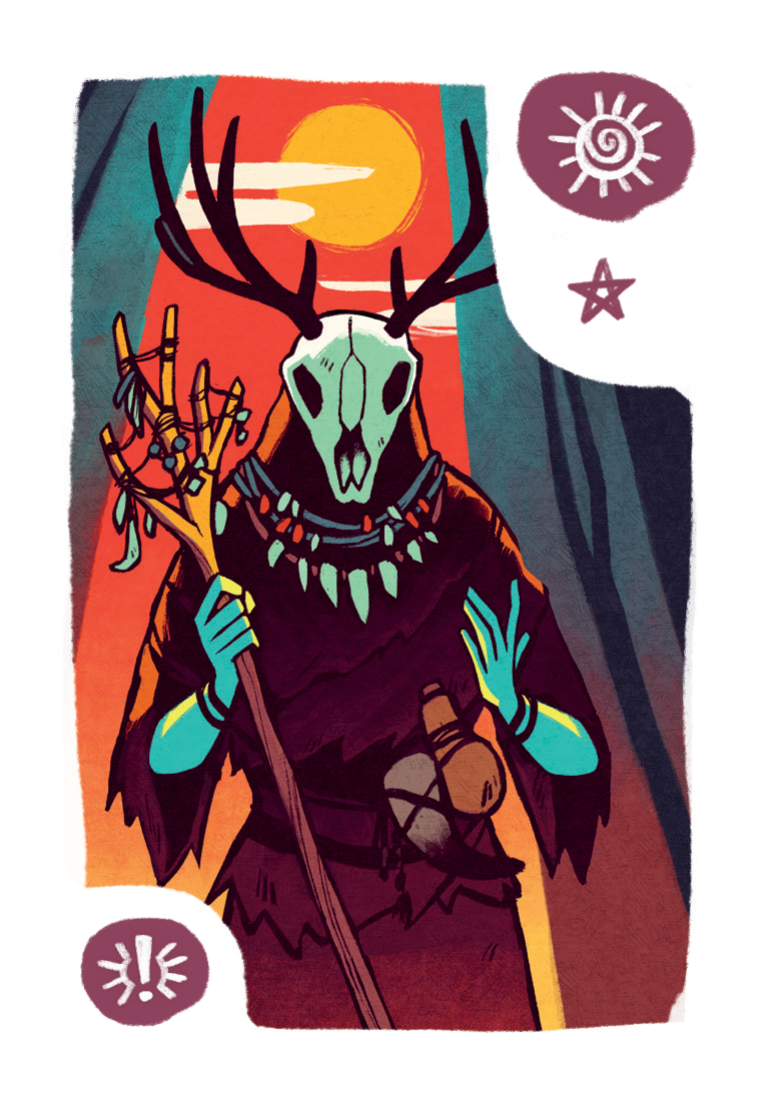
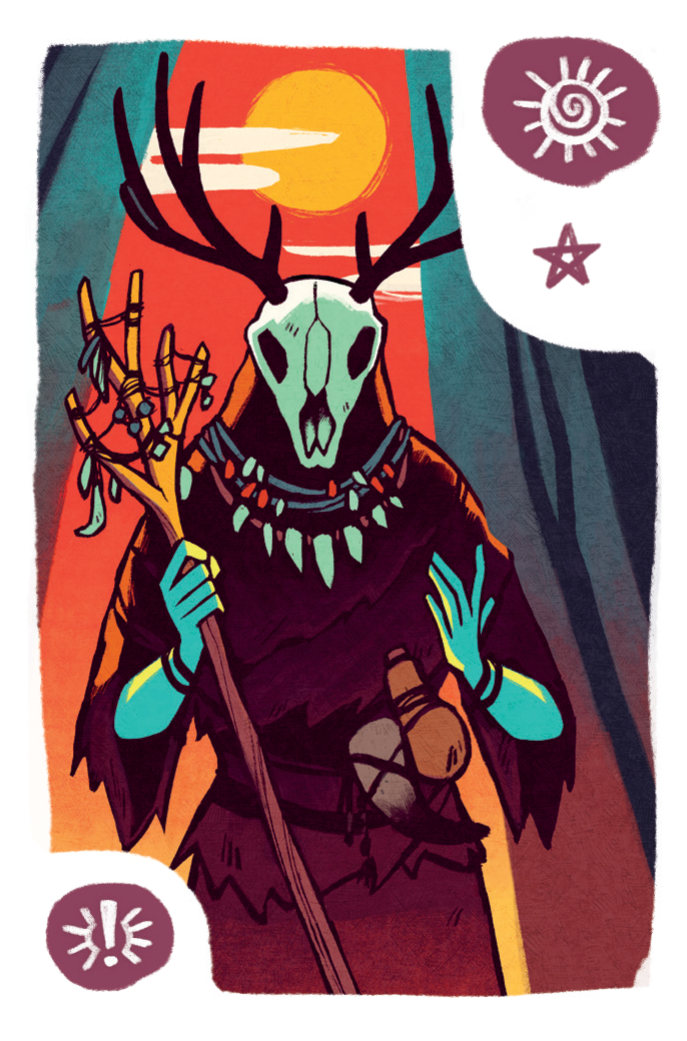
[Feature/BoardController] enhance top bar with round, phase, and era text; improve card animation; small fixes

diff --git a/src/main/java/it/polimi/gc06/mesos/view/gui/controllers/BoardController.java b/src/main/java/it/polimi/gc06/mesos/view/gui/controllers/BoardController.java
@@ -12,15 +12,13 @@ import it.polimi.gc06.mesos.view.gui.helpers.Totem;
 import it.polimi.gc06.mesos.view.gui.visitors.CardEffectVisitor;
 import it.polimi.gc06.mesos.view.smallModel.PlayerView;
 import it.polimi.gc06.mesos.view.smallModel.TileSlotView;
-import javafx.animation.Interpolator;
-import javafx.animation.KeyFrame;
-import javafx.animation.KeyValue;
-import javafx.animation.Timeline;
+import javafx.animation.*;
 import javafx.application.Platform;
 import javafx.beans.binding.Bindings;
 import javafx.beans.binding.DoubleBinding;
 import javafx.css.PseudoClass;
 import javafx.fxml.FXML;
+import javafx.geometry.Bounds;
 import javafx.geometry.Insets;
 import javafx.geometry.Pos;
 import javafx.scene.Cursor;
@@ -29,10 +27,7 @@ import javafx.scene.control.Button;
 import javafx.scene.control.ScrollPane;
 import javafx.scene.image.Image;
 import javafx.scene.image.ImageView;
-import javafx.scene.layout.HBox;
-import javafx.scene.layout.Priority;
-import javafx.scene.layout.Region;
-import javafx.scene.layout.VBox;
+import javafx.scene.layout.*;
 import javafx.scene.shape.Rectangle;
 import javafx.scene.text.Font;
 import javafx.scene.text.Text;
@@ -116,6 +111,12 @@ public class BoardController implements ModelListener {
 
     @FXML
     private HBox topBar;
+    @FXML
+    public Text roundText;
+    @FXML
+    public Text phaseText;
+    @FXML
+    public Text eraText;
 
     @FXML
     private HBox topRowBox;
@@ -241,6 +242,15 @@ public class BoardController implements ModelListener {
         topRowBox.prefHeightProperty().bind(boardRoot.heightProperty().multiply(0.30));
         centerRowBox.prefHeightProperty().bind(boardRoot.heightProperty().multiply(0.30));
         bottomRowBox.prefHeightProperty().bind(boardRoot.heightProperty().multiply(0.30));
+
+        topBar.setAlignment(Pos.CENTER);
+        topBar.setSpacing(300);
+        roundText.setText("Round " + (smallModel != null ? smallModel.getRound() : "?"));
+        roundText.setFont(mesosFont);
+        phaseText.setText(smallModel != null ? smallModel.getPhase().toString() : "?");
+        phaseText.setFont(mesosFont);
+        eraText.setText(smallModel != null ? smallModel.getEra().toString() : "?");
+        eraText.setFont(mesosFont);
 
         topRowBox.setAlignment(Pos.CENTER);
         topRowBox.setSpacing(20);
@@ -578,19 +588,10 @@ public class BoardController implements ModelListener {
 
         playerCardsContainer.getChildren().clear();
 
-        if (p.getCharacters() != null) {
-            for (Object item : p.getCharacters()) {
-                if (item instanceof List) {
-                    for (Object cardObj : (List<?>) item) {
-                        Card card = (Card) cardObj;
-                        CardView cardView = new CardView(new Image(imageFetcher.fetch(card)));
-
-                        cardView.fitHeightProperty().bind(inventoryBox.heightProperty().multiply(RESIZE_CARD_FACTOR));
-
-                        playerCardsContainer.getChildren().add(cardView);
-                    }
-                }
-            }
+        for (Card card : p.getCharacters()) {
+            CardView cardView = new CardView(new Image(imageFetcher.fetch(card)));
+            cardView.fitHeightProperty().bind(inventoryBox.heightProperty().multiply(RESIZE_CARD_FACTOR));
+            playerCardsContainer.getChildren().add(cardView);
         }
     }
 
@@ -623,8 +624,8 @@ public class BoardController implements ModelListener {
         for (Card card : smallModel.getTopRow()) {
             CardView cardView = new CardView(new Image(imageFetcher.fetch(card)));
             cardView.fitHeightProperty().bind(topRowBox.heightProperty().multiply(RESIZE_CARD_FACTOR));
-            setCardEffect(cardView);
             cardView.setCard(card);
+            setCardEffect(cardView);
             topCharactersContainer.getChildren().add(cardView);
         }
     }
@@ -635,8 +636,8 @@ public class BoardController implements ModelListener {
         for (Card building : smallModel.getTopBuildings()) {
             CardView cardView = new CardView(new Image(imageFetcher.fetch(building)));
             cardView.fitHeightProperty().bind(topRowBox.heightProperty().multiply(RESIZE_CARD_FACTOR));
-            setCardEffect(cardView);
             cardView.setCard(building);
+            setCardEffect(cardView);
             buildingsContainer.getChildren().add(cardView);
         }
     }
@@ -647,8 +648,8 @@ public class BoardController implements ModelListener {
         for (Card card : smallModel.getBottomRow()) {
             CardView cardView = new CardView(new Image(imageFetcher.fetch(card)));
             cardView.fitHeightProperty().bind(bottomRowBox.heightProperty().multiply(RESIZE_CARD_FACTOR));
-            setCardEffect(cardView);
             cardView.setCard(card);
+            setCardEffect(cardView);
             bottomCharactersContainer.getChildren().add(cardView);
         }
     }
@@ -661,8 +662,8 @@ public class BoardController implements ModelListener {
         for (Card building : smallModel.getBottomBuildings()) {
             CardView cardView = new CardView(new Image(imageFetcher.fetch(building)));
             cardView.fitHeightProperty().bind(bottomRowBox.heightProperty().multiply(RESIZE_CARD_FACTOR));
-            setCardEffect(cardView);
             cardView.setCard(building);
+            setCardEffect(cardView);
             bottomBuildingsContainer.getChildren().add(cardView);
         }
     }
@@ -696,6 +697,74 @@ public class BoardController implements ModelListener {
     private void setCardEffect(CardView cardView) {
         CardEffectVisitor visitor = new CardEffectVisitor(cardView);
         cardView.getCard().accept(visitor);
+    }
+
+    /**
+     * This method applies a smooth animation to a card when it's picked from the top/bottom rows or the buildings rows and moved to the player's inventory.
+     * The card will visually move from its original position to the player's inventory area, creating a more engaging user experience.
+     * It is called before redrawing the personal decks of the target player, based on the small model data.
+     *
+     * @param card the card picked
+     */
+    public static void applyPickCardAnimation(CardView card, HBox targetContainer, HBox mainRoot) {
+        card.setOnMouseClicked(event -> {
+            Bounds cardScreen = card.localToScreen(card.getBoundsInLocal());
+            Bounds targetScreen = targetContainer.localToScreen(targetContainer.getBoundsInLocal());
+            if (cardScreen == null || targetScreen == null) return;
+
+            // we need this overlay pane to make the card appear above all other elements during the animation
+            Pane overlayPane = new Pane();
+            Pane root = (Pane) mainRoot.getScene().getRoot();
+            Bounds rootScreen = root.localToScreen(root.getBoundsInLocal());
+
+            overlayPane.prefWidthProperty().bind(root.widthProperty());
+            overlayPane.prefHeightProperty().bind(root.heightProperty());
+            overlayPane.setMouseTransparent(true);
+            root.getChildren().add(overlayPane);
+
+            double cardX = cardScreen.getMinX() - rootScreen.getMinX();
+            double cardY = cardScreen.getMinY() - rootScreen.getMinY();
+            double targetX = targetScreen.getMinX() - rootScreen.getMinX();
+            double targetY = targetScreen.getMinY() - rootScreen.getMinY();
+
+            Pane originalParent = (Pane) card.getParent();
+            originalParent.getChildren().remove(card); // TODO : we could do this and then redraw the original container
+
+            card.relocate(cardX, cardY);
+            card.setTranslateX(0);
+            card.setTranslateY(0);
+            overlayPane.getChildren().add(card);
+
+            // adjust the speed of the animation based on the distance to travel, with a minimum and maximum duration
+            double deltaX = targetX - cardX;
+            double deltaY = targetY - cardY;
+            double distance = Math.sqrt(deltaX * deltaX + deltaY * deltaY);
+
+            double speed = 0.9;
+            long durationMs = (long) (distance / speed);
+
+            durationMs = Math.clamp(durationMs, 300, 600);
+
+            TranslateTransition transition = EffectsManager.createCardMoveTransition(card, targetX - cardX, targetY - cardY, durationMs);
+            transition.setInterpolator(Interpolator.EASE_OUT);
+
+            transition.setOnFinished(e -> {
+                overlayPane.getChildren().remove(card);
+                root.getChildren().remove(overlayPane);
+                card.setTranslateX(0);
+                card.setTranslateY(0);
+                // the bind below ensure that the card is the same size of the others visually, it matters just during the
+                // animation, then we re draw the inventory, and it will be draw like the others
+                card.fitHeightProperty().bind(targetContainer.heightProperty().multiply(1));
+                targetContainer.getChildren().add(card); // TODO : we could do this and then redraw the original container
+            });
+
+            transition.play();
+
+            // TODO : the card should be redrawn in the inventory so no need to remove the effects but we keep it for now
+            card.setOnMouseClicked(event2 -> {
+            });
+        });
     }
 
     private void applyEffectToContainerCardViews(HBox container) {
@@ -752,6 +821,8 @@ public class BoardController implements ModelListener {
             } else {
                 offerTrackTiles.get(i).setTotem(new TotemPieceView());
             }
+
+            EffectsManager.activeTile(offerTrackTiles.get(i));
         }
     }
 

diff --git a/src/main/java/it/polimi/gc06/mesos/view/gui/GUI.java b/src/main/java/it/polimi/gc06/mesos/view/gui/GUI.java
@@ -81,9 +81,9 @@ public class GUI extends Application implements View {
         PlayerView clientPlayer = smallModel.getPlayer();
         clientPlayer.setNumFood(5);
         clientPlayer.setNumPrestige(10);
-//        for (int i = 0; i < 5; i++) {
-//            clientPlayer.getCharacters().add(new ShamanCard(Era.ERA_I, 1));
-//        }
+        for (int i = 0; i < 5; i++) {
+            clientPlayer.getCharacters().add(new ShamanCard(Era.ERA_I, 1));
+        }
 
         PlayerView p2 = new PlayerView("Player 2", Color.BLUE);
         p2.setNumFood(5);
@@ -99,10 +99,10 @@ public class GUI extends Application implements View {
         smallModel.getOpponents().add(p4);
         smallModel.getOpponents().add(p5);
 
-//        for (int i = 0; i < 12; i++) {
-//            smallModel.getTopRow().add(new ShamanCard(Era.ERA_I, 1));
-//            smallModel.getBottomRow().add(new ShamanCard(Era.ERA_I, 2));
-//        }
+        for (int i = 0; i < 12; i++) {
+            smallModel.getTopRow().add(new ShamanCard(Era.ERA_I, 1));
+            smallModel.getBottomRow().add(new ShamanCard(Era.ERA_I, 1));
+        }
 
         ArrayList<PlayerView> playerViews = new ArrayList<>();
         playerViews.add(smallModel.getOpponents().get(0));
@@ -142,12 +142,6 @@ public class GUI extends Application implements View {
         TileSlotView tG = new TileSlotView();
         tG.setTileEffect(new ChooseCardTileEffect(2, 1));
         smallModel.getOfferTrack().add(tG);
-
-//        for (int i = 0; i < 6; i++) {
-//            TileSlotView t = new TileSlotView();
-//            t.setTileEffect(new ChooseCardTileEffect());
-//            smallModel.getOfferTrack().add(t);
-//        }
 
         imageFetcher = new ImageFetcher(playerViews.size());
     }
